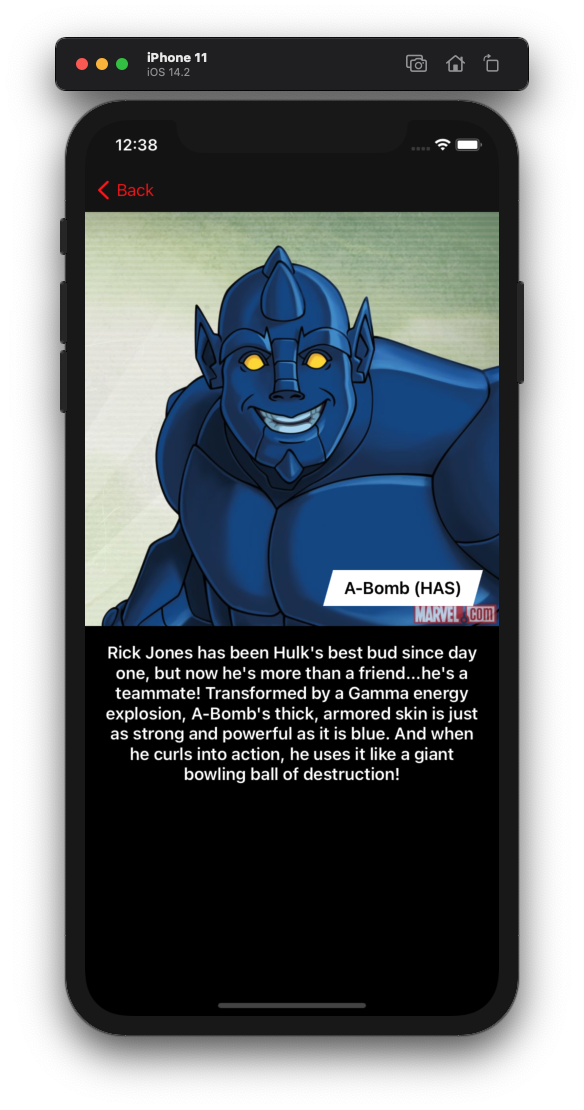
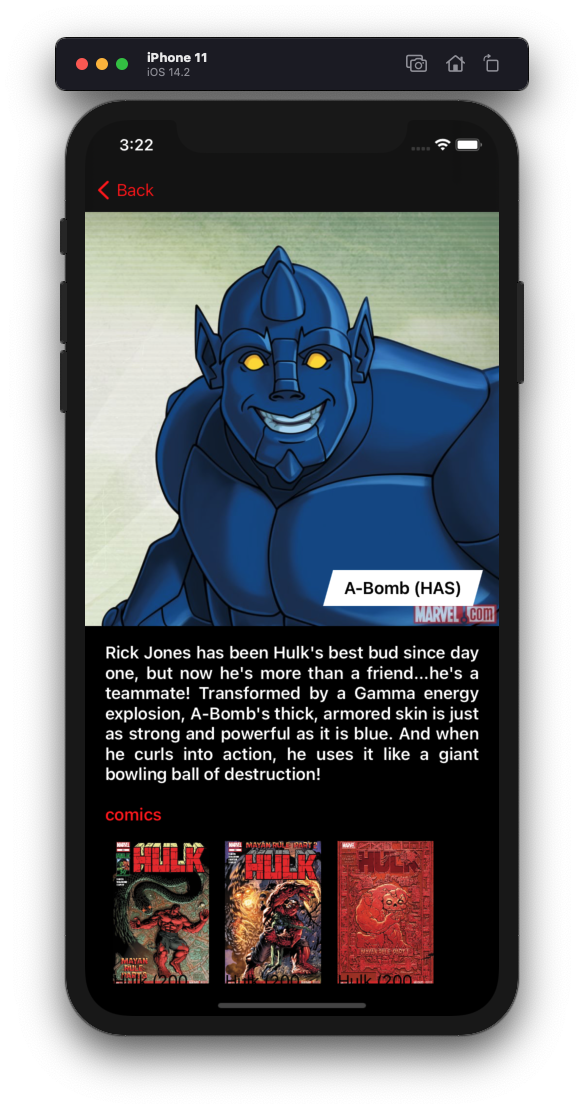
Update Readme with Support for Collections
- Gallery of Images
- Checklist

Changed region(s): [[0.1849, 0.582, 0.8322, 0.8883], [0.1849, 0.1225, 0.2774, 0.1532]]

diff --git a/README.md b/README.md
@@ -17,9 +17,10 @@ Using this app, users will be able to browse through the Marvel library of chara
 <!-- Portfolio Gallery Grid -->
 
 <p align="center">
-<img src="Docs/Images/iOS Main View.png" width="32%">
-<img src="Docs/Images/iOS Main View Scrolled UP.png" width="32%">
-<img src="Docs/Images/iOS Detailed View.png" width="32%">
+<img src="Docs/Images/iOS Main View.png" width="24%">
+<img src="Docs/Images/iOS Main View Scrolled UP.png" width="24%">
+<img src="Docs/Images/iOS Detailed View.png" width="24%">
+<img src="Docs/Images/iOS Detailed View Scrolled.png" width="24%">
 </p>
 
 [//]: # "Features"
@@ -27,12 +28,12 @@ Using this app, users will be able to browse through the Marvel library of chara
 This app is able to:
 
 - [x] Communicate with the Public Marvel API.
-- [x] See a list/collection of items from the Marvel API.
-- [x] Search or filter the contents of this list/collection.
-- [ ] See the full details of any item from this list/collection.
+- [x] See a collection of items from the Marvel API.
+- [x] Search or filter the contents of the collection.
+- [x] See details of any item from the collection.
   - [X] Image
   - [X] Description
-  - [ ] Comics, Series and other collections
+  - [x] Comics, Series and other collections
 - [x] Use the latest Swift version (Swift 5.3)
 - [x] The project must use git.
 
